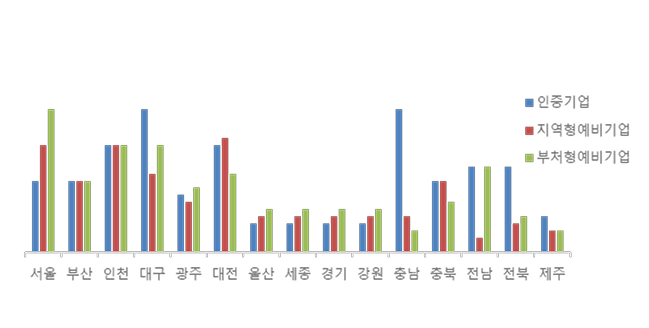
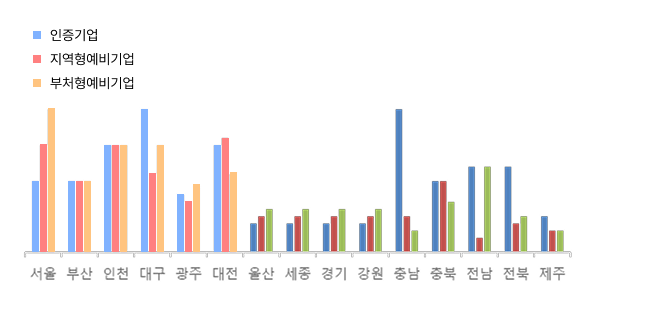
대시보드 추가수정

diff --git a/html_/main.html b/html_/main.html
@@ -222,8 +222,12 @@
                                 </button>
                                 <div class="dashboard-tooltip-box">
                                     <div class="dashboard-tooltip-inner">
-                                        안녕하세요. <br>
-                                        사회적기업입니다.
+                                        <ul>
+                                            <li>인증: 2025.01~2025.07</li>
+                                            <li>휴폐업: 2000.12.25부터 누적</li>
+                                            <li>인증반납: 2000.12.25부터 누적</li>
+                                            <li>지정: 2025.04~2025.07 현재</li>
+                                        </ul>
                                     </div>
                                 </div>
                             </div>
@@ -513,6 +517,13 @@
                             </div>
                             <div class="dashboard-content-wrap">
                                 <div class="dashboard-graph-wrap">
+                                    <!-- 
+                                        [D]막대그래프 색상코드
+
+                                        * 파랑: #80B2FF
+                                        * 빨강: #FF8080
+                                        * 주황: #FFC480
+                                    -->
                                     <img src="../assets/images/dashboard/graph.png" alt="">
                                 </div>
                                 <div class="dashbaord-table-wrap">

diff --git a/assets/css/dashboard.css b/assets/css/dashboard.css
@@ -253,10 +253,6 @@
   color: #fff;
 }
 
-.dashboard-tooltip-wrap {
-  position: relative;
-}
-
 .dashboard-btn-tooltip {
   display: -webkit-inline-box;
   display: -ms-inline-flexbox;
@@ -273,21 +269,26 @@
   background: url(../images/dashboard/icon_tooltip.svg) no-repeat center/cover;
 }
 
+.dashboard-tooltip-wrap {
+  position: relative;
+}
+
 .dashboard-tooltip-box {
   display: none;
   position: absolute;
-  top: 100%;
+  top: calc(100% + 9px);
   left: 50%;
   background: #fff;
+  -webkit-box-shadow: 0px 4px 10px 0px rgba(0, 0, 0, 0.15);
+          box-shadow: 0px 4px 10px 0px rgba(0, 0, 0, 0.15);
   padding: 12px 16px;
   border-radius: 4px;
-  -webkit-transform: translateX(-50%);
-          transform: translateX(-50%);
-}
-.dashboard-tooltip-box p {
+  font-weight: 600;
   font-size: 12px;
   color: #222;
-  font-weight: 600;
+  white-space: nowrap;
+  -webkit-transform: translateX(-50%);
+          transform: translateX(-50%);
 }
 
 .dashboard-sub {
@@ -361,7 +362,7 @@
       -ms-flex-align: start;
           align-items: flex-start;
   gap: 20px;
-  height: calc(100vh - 46px + 26px);
+  height: calc(100% - 46px - 26px);
   overflow: hidden;
 }
 .dashboard-btm > * {
@@ -563,12 +564,8 @@
   height: 56px;
   background-color: #fff;
   border-radius: 8px;
-  -webkit-transition: 0.25s;
-  transition: 0.25s;
-}
-.todolist-item-link > * {
-  -webkit-transition: color 0.25s, background-color 0.3s;
-  transition: color 0.25s, background-color 0.3s;
+  -webkit-transition: none;
+  transition: none;
 }
 .todolist-item-link .data-wrap {
   position: relative;

diff --git a/assets/scss/dashboard.scss b/assets/scss/dashboard.scss
@@ -289,10 +289,6 @@ $dashboard-text-secondary: #666; // 텍스트컬러 3
 }
 
 // tooltip
-.dashboard-tooltip-wrap{
-    position: relative;
-}
-
 .dashboard-btn-tooltip{
     display: inline-flex;
 
@@ -310,21 +306,24 @@ $dashboard-text-secondary: #666; // 텍스트컬러 3
     background: url(../images/dashboard/icon_tooltip.svg) no-repeat center / cover;
 }
 
+.dashboard-tooltip-wrap{
+    position: relative;
+}
+
 .dashboard-tooltip-box{
     display: none;
     position: absolute;
-    top: 100%;
+    top: calc( 100% + 9px );
     left: 50%;
     background: #fff;
+    box-shadow: 0px 4px 10px 0px rgba(0, 0, 0, 0.15);
     padding: 12px 16px;
     border-radius: 4px;
+    font-weight: 600;
+    font-size: 12px;
+    color: #222;
+    white-space: nowrap;
     transform: translateX(-50%);
-
-    p{
-        font-size: 12px;
-        color: #222;
-        font-weight: 600;
-    }
 }
 
 // sub
@@ -396,7 +395,7 @@ $dashboard-text-secondary: #666; // 텍스트컬러 3
     display: flex;
     align-items: flex-start;
     gap: 20px;
-    height: calc( 100vh - 46px + 26px ); 
+    height: calc(100% - 46px - 26px); 
     overflow: hidden;
 
     & > *{
@@ -570,11 +569,7 @@ $dashboard-text-secondary: #666; // 텍스트컬러 3
     height: 56px;
     background-color: #fff;
     border-radius: $dashboard-radius-small;
-    transition: 0.25s;
-
-    & > *{
-        transition: color 0.25s, background-color 0.3s;
-    }
+    transition: none;
 
     .data-wrap{
         position: relative;
